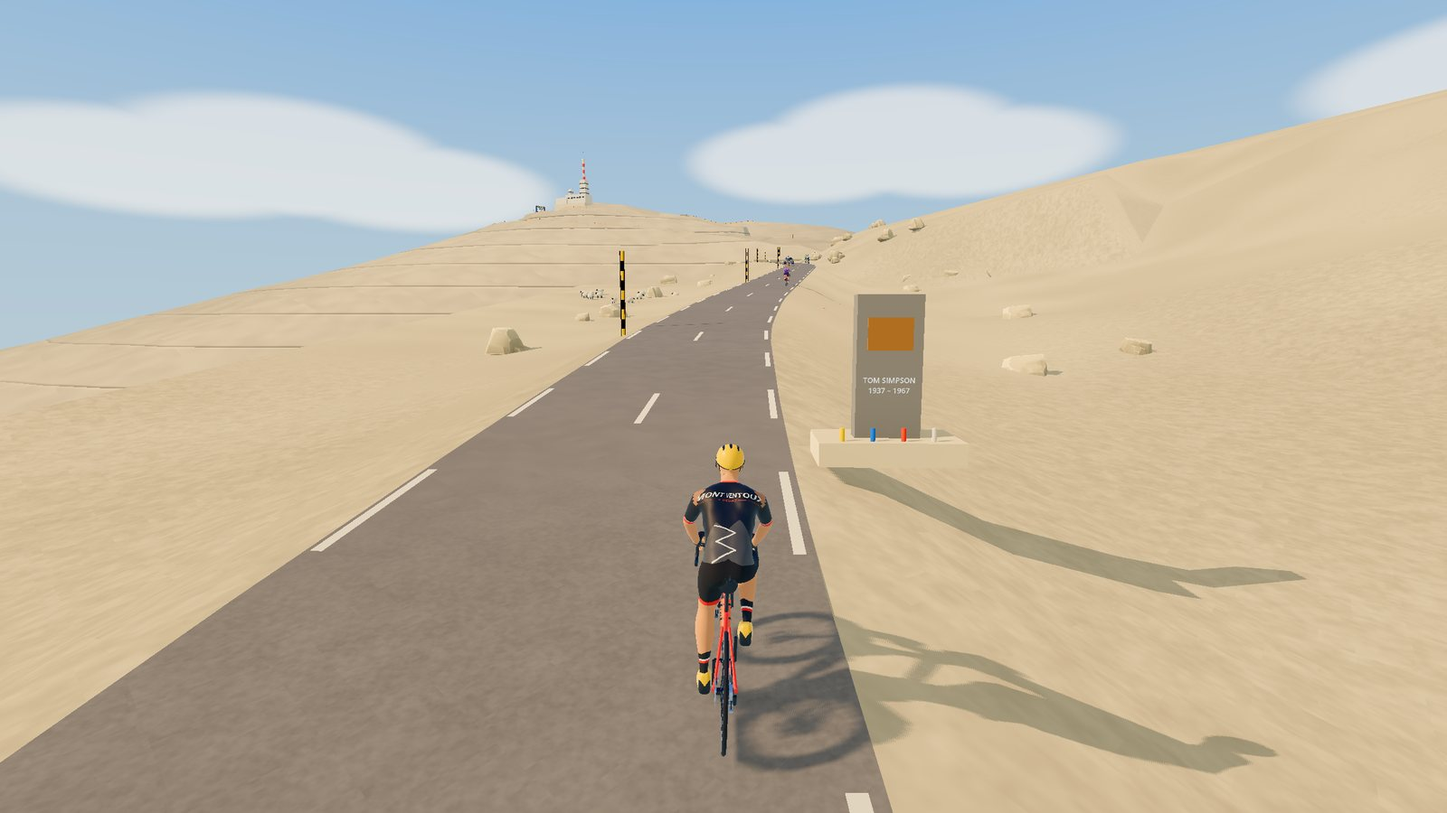
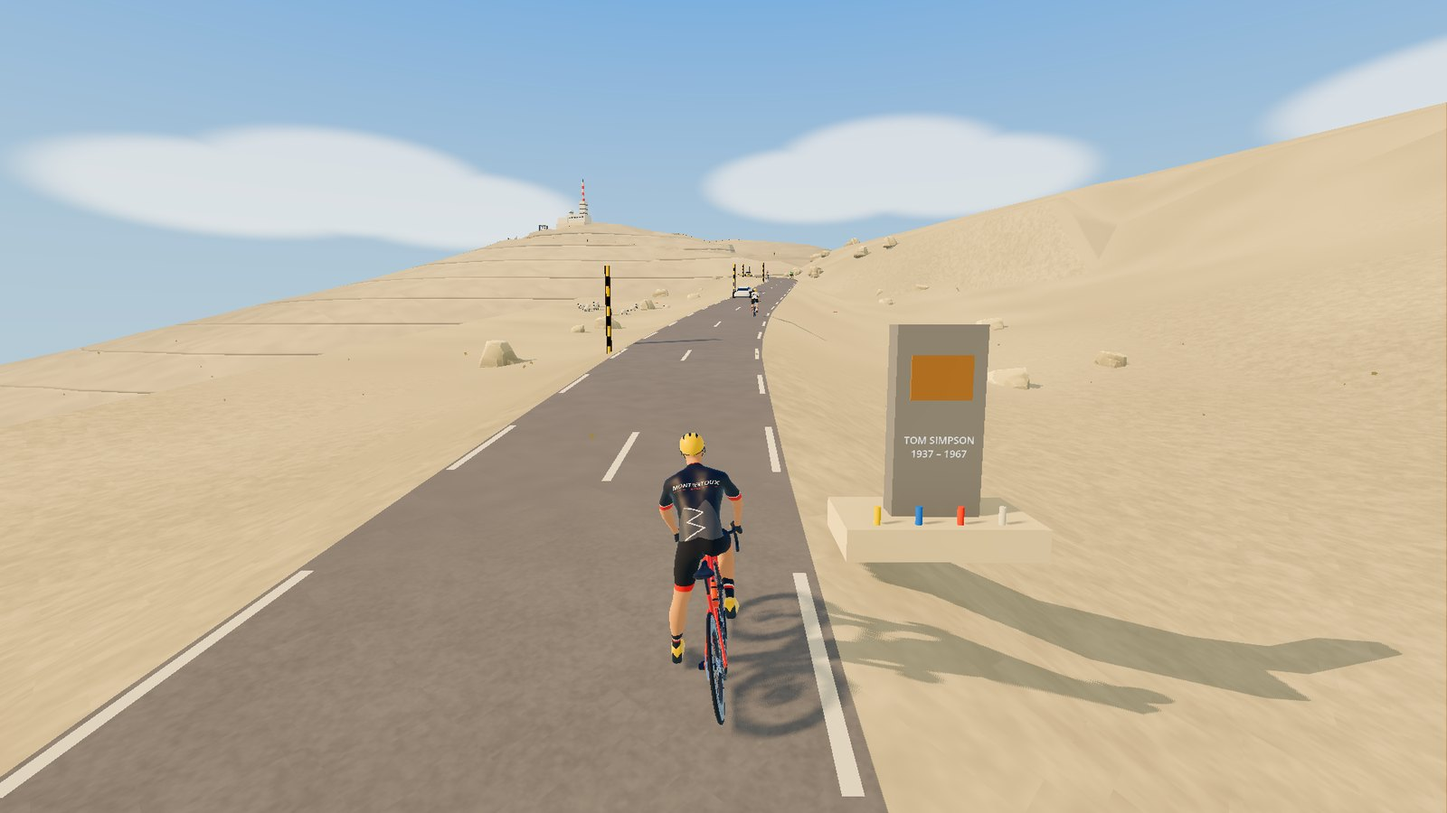
Images refaites avec le nouveau cycliste (posture, mains, selle) : accueil, 7 vues caméra, village, pluie, montées de Bédoin, Sault et Malaucène

diff --git a/index.html b/index.html
@@ -46,7 +46,7 @@
 </header>
 
 <div class="hero">
-  <img class="bg" src="img/hero.jpg?v=5" alt="Un cycliste au maillot MVO dans le pierrier du Mont Ventoux, l'observatoire au sommet">
+  <img class="bg" src="img/hero.jpg?v=6" alt="Un cycliste au maillot MVO dans le pierrier du Mont Ventoux, l'observatoire au sommet">
   <div class="wrap">
     <img class="logo" src="img/logo.png" alt="Mont Ventoux Online">
     <div class="soon-badge">Bientôt disponible • bêta en cours</div>
@@ -83,7 +83,7 @@
     <h2>Trois versants. Trois façons de souffrir. Une seule légende.</h2>
     <p class="lead">Chaque montée est chronométrée de son village jusqu'à l'observatoire, avec les bornes kilométriques blanches et jaunes qui égrènent l'altitude et la pente du kilomètre suivant, comme sur la vraie route.</p>
     <div class="grid three">
-      <a class="card versant reveal" href="bedoin.html"><img src="img/bedoin_foret_pres.jpg" alt="La forêt de Bédoin, au-dessus de 9 %"><div class="body">
+      <a class="card versant reveal" href="bedoin.html"><img src="img/bedoin_foret_pres.jpg?v=2" alt="La forêt de Bédoin, au-dessus de 9 %"><div class="body">
         <h3>Par Bédoin</h3><p>La voie royale : la forêt sans répit, puis le désert de pierres jusqu'au sommet.</p>
         <div class="stats"><span>21,4 km</span><span class="hard">+1 587 m</span><span>7,4 %</span></div><span class="more">Découvrir la montée →</span></div></a>
       <a class="card versant reveal d1" href="malaucene.html"><img src="img/malaucene_serein.jpg" alt="Au-dessus du Mont Serein, sur la face nord"><div class="body">
@@ -153,13 +153,13 @@
     </div>
     <h3 class="views-title reveal">Huit vues, une touche chacune</h3>
     <div class="views">
-      <figure class="reveal"><img src="img/vue_0.jpg" alt="Poursuite" loading="lazy"><figcaption><kbd>1</kbd> Poursuite</figcaption></figure>
-      <figure class="reveal"><img src="img/vue_1.jpg" alt="Haute" loading="lazy"><figcaption><kbd>2</kbd> Haute</figcaption></figure>
-      <figure class="reveal"><img src="img/vue_2.jpg" alt="Les yeux du cycliste" loading="lazy"><figcaption><kbd>3</kbd> Les yeux du cycliste</figcaption></figure>
-      <figure class="reveal"><img src="img/vue_3.jpg" alt="De côté" loading="lazy"><figcaption><kbd>4</kbd> De côté</figcaption></figure>
-      <figure class="reveal"><img src="img/vue_4.jpg" alt="De face, comme la moto TV" loading="lazy"><figcaption><kbd>5</kbd> De face, comme la moto TV</figcaption></figure>
-      <figure class="reveal"><img src="img/vue_5.jpg" alt="Au ras de la roue" loading="lazy"><figcaption><kbd>6</kbd> Au ras de la roue</figcaption></figure>
-      <figure class="reveal"><img src="img/vue_6.jpg" alt="Drone" loading="lazy"><figcaption><kbd>7</kbd> Drone</figcaption></figure>
+      <figure class="reveal"><img src="img/vue_0.jpg?v=2" alt="Poursuite" loading="lazy"><figcaption><kbd>1</kbd> Poursuite</figcaption></figure>
+      <figure class="reveal"><img src="img/vue_1.jpg?v=2" alt="Haute" loading="lazy"><figcaption><kbd>2</kbd> Haute</figcaption></figure>
+      <figure class="reveal"><img src="img/vue_2.jpg?v=2" alt="Les yeux du cycliste" loading="lazy"><figcaption><kbd>3</kbd> Les yeux du cycliste</figcaption></figure>
+      <figure class="reveal"><img src="img/vue_3.jpg?v=2" alt="De côté" loading="lazy"><figcaption><kbd>4</kbd> De côté</figcaption></figure>
+      <figure class="reveal"><img src="img/vue_4.jpg?v=2" alt="De face, comme la moto TV" loading="lazy"><figcaption><kbd>5</kbd> De face, comme la moto TV</figcaption></figure>
+      <figure class="reveal"><img src="img/vue_5.jpg?v=2" alt="Au ras de la roue" loading="lazy"><figcaption><kbd>6</kbd> Au ras de la roue</figcaption></figure>
+      <figure class="reveal"><img src="img/vue_6.jpg?v=2" alt="Drone" loading="lazy"><figcaption><kbd>7</kbd> Drone</figcaption></figure>
       <figure class="reveal tv"><div><kbd>8</kbd> <strong>Réalisation TV</strong><p>Les plans s'enchaînent tout seuls, comme à la télévision : poursuite, côté, moto, drone, ras de la roue…</p></div></figure>
     </div>
   </div>
@@ -189,7 +189,7 @@
     <p class="lead">Mont Ventoux Online reconstruit la Provence à partir de données géographiques publiques : relief de l'IGN, routes et bâtiments d'OpenStreetMap, photographies aériennes. Des parcours tracés sur de vraies sorties, pas sur un circuit imaginaire.</p>
 
     <div class="feature reveal">
-      <img src="img/bedoin_foret.jpg" alt="Montée du Ventoux dans la forêt de Bédoin">
+      <img src="img/bedoin_foret.jpg?v=2" alt="Montée du Ventoux dans la forêt de Bédoin">
       <div>
         <h3>La pente réelle, dans les jambes</h3>
         <p>Votre home trainer connecté reçoit la pente de la route à chaque instant : la forêt de Bédoin, les rampes au-dessus du Chalet Reynard, la dernière ligne droite vers l'observatoire.</p>
@@ -198,7 +198,7 @@
     </div>
 
     <div class="feature reveal">
-      <img src="img/village.jpg" alt="Traversée de Sault, entre boutiques et façades provençales">
+      <img src="img/village.jpg?v=2" alt="Traversée de Sault, entre boutiques et façades provençales">
       <div>
         <h3>Des villages provençaux reconstitués</h3>
         <p>Les villages sont reconstitués à partir de la carte OpenStreetMap, dans le style des villages de Provence. Les panneaux d'entrée de village et les noms de rues défilent sous vos roues.</p>
@@ -214,7 +214,7 @@
     </div>
 
     <div class="feature reveal">
-      <img src="img/bedoin_foret_pres.jpg" alt="Montée du Ventoux dans la forêt : une voiture et des cyclistes devant">
+      <img src="img/bedoin_foret_pres.jpg?v=2" alt="Montée du Ventoux dans la forêt : une voiture et des cyclistes devant">
       <div>
         <h3>Une route vivante</h3>
         <p>D'autres cyclistes à suivre ou à doubler (avec l'aspiration dans leur roue), des voitures, des tracteurs, des troupeaux, des coureurs et des promeneurs qui s'écartent à votre passage, les cigales l'été.</p>
@@ -222,7 +222,7 @@
     </div>
 
     <div class="feature reveal">
-      <img src="img/meteo.jpg?v=3" alt="Sortie sous la pluie dans les vignes des Dentelles">
+      <img src="img/meteo.jpg?v=4" alt="Sortie sous la pluie dans les vignes des Dentelles">
       <div>
         <h3>La météo du jour… ou celle de votre choix</h3>
         <p><strong>En direct</strong> : le jeu récupère la vraie météo du Vaucluse au moment où vous roulez. Vent, rafales, température, nuages et pluie, avec un vent plus fort et plus froid au sommet du Ventoux qu'au pied.</p>
@@ -231,7 +231,7 @@
     </div>
 
     <div class="feature reveal">
-      <img src="img/bedoin_village.jpg" alt="Bédoin, le Mont Ventoux à l'horizon">
+      <img src="img/bedoin_village.jpg?v=2" alt="Bédoin, le Mont Ventoux à l'horizon">
       <div>
         <h3>Le sommet se mérite</h3>
         <p>Le Ventoux grandit à chaque lacet. Ce qui vous attend là-haut, à 1 912 m ? Ce sera la surprise.</p>

diff --git a/en.html b/en.html
@@ -46,7 +46,7 @@
 </header>
 
 <div class="hero">
-  <img class="bg" src="img/hero.jpg?v=5" alt="A rider in an MVO jersey on the white scree of Mont Ventoux, the observatory at the summit">
+  <img class="bg" src="img/hero.jpg?v=6" alt="A rider in an MVO jersey on the white scree of Mont Ventoux, the observatory at the summit">
   <div class="wrap">
     <img class="logo" src="img/logo.png" alt="Mont Ventoux Online">
     <div class="soon-badge">Coming soon • beta in progress</div>
@@ -83,7 +83,7 @@
     <h2>Three sides. Three ways to suffer. One legend.</h2>
     <p class="lead">Every climb is timed from its village up to the observatory, with the white and yellow kilometre markers counting down the altitude and the gradient of the next kilometre, just like on the real road.</p>
     <div class="grid three">
-      <a class="card versant reveal" href="en-bedoin.html"><img src="img/bedoin_foret_pres.jpg" alt="The Bédoin forest, above 9%"><div class="body">
+      <a class="card versant reveal" href="en-bedoin.html"><img src="img/bedoin_foret_pres.jpg?v=2" alt="The Bédoin forest, above 9%"><div class="body">
         <h3>Via Bédoin</h3><p>The royal road: the relentless forest, then the stone desert up to the summit.</p>
         <div class="stats"><span>21.4 km</span><span class="hard">+1,587 m</span><span>7.4 %</span></div><span class="more">Discover the climb →</span></div></a>
       <a class="card versant reveal d1" href="en-malaucene.html"><img src="img/malaucene_serein.jpg" alt="Above Mont Serein, on the north face"><div class="body">
@@ -153,13 +153,13 @@
     </div>
     <h3 class="views-title reveal">Eight views, one key each</h3>
     <div class="views">
-      <figure class="reveal"><img src="img/vue_0.jpg" alt="Chase" loading="lazy"><figcaption><kbd>1</kbd> Chase</figcaption></figure>
-      <figure class="reveal"><img src="img/vue_1.jpg" alt="High" loading="lazy"><figcaption><kbd>2</kbd> High</figcaption></figure>
-      <figure class="reveal"><img src="img/vue_2.jpg" alt="Rider's eyes" loading="lazy"><figcaption><kbd>3</kbd> Rider's eyes</figcaption></figure>
-      <figure class="reveal"><img src="img/vue_3.jpg" alt="Side" loading="lazy"><figcaption><kbd>4</kbd> Side</figcaption></figure>
-      <figure class="reveal"><img src="img/vue_4.jpg" alt="Front, like the TV motorbike" loading="lazy"><figcaption><kbd>5</kbd> Front, like the TV motorbike</figcaption></figure>
-      <figure class="reveal"><img src="img/vue_5.jpg" alt="Wheel level" loading="lazy"><figcaption><kbd>6</kbd> Wheel level</figcaption></figure>
-      <figure class="reveal"><img src="img/vue_6.jpg" alt="Drone" loading="lazy"><figcaption><kbd>7</kbd> Drone</figcaption></figure>
+      <figure class="reveal"><img src="img/vue_0.jpg?v=2" alt="Chase" loading="lazy"><figcaption><kbd>1</kbd> Chase</figcaption></figure>
+      <figure class="reveal"><img src="img/vue_1.jpg?v=2" alt="High" loading="lazy"><figcaption><kbd>2</kbd> High</figcaption></figure>
+      <figure class="reveal"><img src="img/vue_2.jpg?v=2" alt="Rider's eyes" loading="lazy"><figcaption><kbd>3</kbd> Rider's eyes</figcaption></figure>
+      <figure class="reveal"><img src="img/vue_3.jpg?v=2" alt="Side" loading="lazy"><figcaption><kbd>4</kbd> Side</figcaption></figure>
+      <figure class="reveal"><img src="img/vue_4.jpg?v=2" alt="Front, like the TV motorbike" loading="lazy"><figcaption><kbd>5</kbd> Front, like the TV motorbike</figcaption></figure>
+      <figure class="reveal"><img src="img/vue_5.jpg?v=2" alt="Wheel level" loading="lazy"><figcaption><kbd>6</kbd> Wheel level</figcaption></figure>
+      <figure class="reveal"><img src="img/vue_6.jpg?v=2" alt="Drone" loading="lazy"><figcaption><kbd>7</kbd> Drone</figcaption></figure>
       <figure class="reveal tv"><div><kbd>8</kbd> <strong>TV director</strong><p>Shots follow one another on their own, like on TV: chase, side, motorbike, drone, wheel level…</p></div></figure>
     </div>
   </div>
@@ -189,7 +189,7 @@
     <p class="lead">Mont Ventoux Online rebuilds Provence from public geographic data: IGN terrain (the French national mapping agency), OpenStreetMap roads and buildings, aerial photographs. Routes traced from real rides, not an imaginary circuit.</p>
 
     <div class="feature reveal">
-      <img src="img/bedoin_foret.jpg" alt="Climbing the Ventoux in the Bédoin forest">
+      <img src="img/bedoin_foret.jpg?v=2" alt="Climbing the Ventoux in the Bédoin forest">
       <div>
         <h3>The real gradient, in your legs</h3>
         <p>Your smart trainer receives the gradient of the road at every moment: the Bédoin forest, the ramps above Chalet Reynard, the final straight to the observatory.</p>
@@ -198,7 +198,7 @@
     </div>
 
     <div class="feature reveal">
-      <img src="img/village.jpg" alt="Riding through Sault, between shops and Provençal facades">
+      <img src="img/village.jpg?v=2" alt="Riding through Sault, between shops and Provençal facades">
       <div>
         <h3>Provençal villages, rebuilt</h3>
         <p>The villages are rebuilt from the OpenStreetMap map, in the style of Provençal villages. Village signs and street names roll by under your wheels.</p>
@@ -214,7 +214,7 @@
     </div>
 
     <div class="feature reveal">
-      <img src="img/bedoin_foret_pres.jpg" alt="Climbing the Ventoux through the forest: a car and riders ahead">
+      <img src="img/bedoin_foret_pres.jpg?v=2" alt="Climbing the Ventoux through the forest: a car and riders ahead">
       <div>
         <h3>A living road</h3>
         <p>Other riders to follow or overtake (with drafting in their wheel), cars, tractors, flocks of sheep, runners and walkers who step aside as you pass, cicadas in summer.</p>
@@ -222,7 +222,7 @@
     </div>
 
     <div class="feature reveal">
-      <img src="img/meteo.jpg?v=3" alt="Riding in the rain through the vineyards of the Dentelles">
+      <img src="img/meteo.jpg?v=4" alt="Riding in the rain through the vineyards of the Dentelles">
       <div>
         <h3>Today's weather… or the one you choose</h3>
         <p><strong>Live</strong>: the game fetches the real Vaucluse weather when you ride. Wind, gusts, temperature, clouds and rain, with a stronger, colder wind at the top of the Ventoux than at its foot.</p>
@@ -231,7 +231,7 @@
     </div>
 
     <div class="feature reveal">
-      <img src="img/bedoin_village.jpg" alt="Bédoin, with Mont Ventoux on the horizon">
+      <img src="img/bedoin_village.jpg?v=2" alt="Bédoin, with Mont Ventoux on the horizon">
       <div>
         <h3>The summit must be earned</h3>
         <p>The Ventoux grows with every hairpin. What awaits you up there, at 1,912 m? That's the surprise.</p>

diff --git a/malaucene.html b/malaucene.html
@@ -62,9 +62,9 @@
     <div class="kicker">La montée</div>
     <h2>Ce qui vous attend</h2>
       <div class="feature reveal"><img src="img/malaucene_depart.jpg" alt="Le départ de Malaucène" loading="lazy"><div><h3>Malaucène, 326 m</h3><p>Au pied des Dentelles, on quitte Malaucène par la route du Groseau. Dès le deuxième kilomètre, près de la chapelle Notre-Dame-du-Groseau, la pente dépasse les 8 %.</p></div></div>
-      <div class="feature reveal"><img src="img/malaucene_foret.jpg" alt="Les rampes de la face nord" loading="lazy"><div><h3>La forêt de la face nord</h3><p>Les pins et les hêtres de l'ubac alternent replats et rampes. Entre le 11e et le 13e kilomètre, la route aligne trois kilomètres à plus de 10 % : le passage le plus dur des trois versants.</p></div></div>
+      <div class="feature reveal"><img src="img/malaucene_foret.jpg?v=2" alt="Les rampes de la face nord" loading="lazy"><div><h3>La forêt de la face nord</h3><p>Les pins et les hêtres de l'ubac alternent replats et rampes. Entre le 11e et le 13e kilomètre, la route aligne trois kilomètres à plus de 10 % : le passage le plus dur des trois versants.</p></div></div>
       <div class="feature reveal"><img src="img/malaucene_serein.jpg" alt="La station du Mont Serein" loading="lazy"><div><h3>Le Mont Serein, 1 433 m</h3><p>La station de ski apparaît au détour d'un virage, avec ses chalets et ses remontées. Un court répit avant l'assaut final.</p></div></div>
-      <div class="feature reveal"><img src="img/malaucene_sommet.jpg" alt="L'observatoire et les spectateurs" loading="lazy"><div><h3>Les derniers kilomètres</h3><p>Au-dessus des arbres, la route grimpe en lacets dans le pierrier jusqu'à l'observatoire. La vue plonge sur la vallée du Toulourenc et, par temps clair, jusqu'aux Alpes.</p></div></div>
+      <div class="feature reveal"><img src="img/malaucene_sommet.jpg?v=2" alt="L'observatoire et les spectateurs" loading="lazy"><div><h3>Les derniers kilomètres</h3><p>Au-dessus des arbres, la route grimpe en lacets dans le pierrier jusqu'à l'observatoire. La vue plonge sur la vallée du Toulourenc et, par temps clair, jusqu'aux Alpes.</p></div></div>
   </div>
 </section>
 
@@ -91,9 +91,9 @@
     <h2>Telles qu'elles s'affichent sur votre écran</h2>
     <div class="gallery">
       <figure class="reveal d1"><img src="img/malaucene_depart.jpg" alt="Le départ de Malaucène" loading="lazy"><figcaption>Le départ de Malaucène</figcaption></figure>
-      <figure class="reveal d2"><img src="img/malaucene_foret.jpg" alt="Les rampes de la face nord" loading="lazy"><figcaption>Les rampes de la face nord</figcaption></figure>
+      <figure class="reveal d2"><img src="img/malaucene_foret.jpg?v=2" alt="Les rampes de la face nord" loading="lazy"><figcaption>Les rampes de la face nord</figcaption></figure>
       <figure class="reveal d3"><img src="img/malaucene_serein.jpg" alt="La station du Mont Serein" loading="lazy"><figcaption>La station du Mont Serein</figcaption></figure>
-      <figure class="reveal d1"><img src="img/malaucene_sommet.jpg" alt="L'observatoire et les spectateurs" loading="lazy"><figcaption>L'observatoire et les spectateurs</figcaption></figure>
+      <figure class="reveal d1"><img src="img/malaucene_sommet.jpg?v=2" alt="L'observatoire et les spectateurs" loading="lazy"><figcaption>L'observatoire et les spectateurs</figcaption></figure>
       <figure class="reveal d2"><img src="img/malaucene_haut.jpg" alt="La forêt de la face nord, vue d'en haut" loading="lazy"><figcaption>La forêt de la face nord, vue d'en haut</figcaption></figure>
       <figure class="reveal d3"><img src="img/maquette_serein.jpg" alt="Les lacets du Mont Serein, vus d'en haut" loading="lazy"><figcaption>Les lacets du Mont Serein, vus d'en haut</figcaption></figure>
     </div>

diff --git a/sault.html b/sault.html
@@ -62,9 +62,9 @@
     <div class="kicker">La montée</div>
     <h2>Ce qui vous attend</h2>
       <div class="feature reveal"><img src="img/sault_depart.jpg" alt="Le départ de Sault, la route du Ventoux" loading="lazy"><div><h3>Sault, 754 m</h3><p>On quitte le village perché par la route du Ventoux, entre champs de lavande et d'épeautre. Après une courte descente, la montée commence à 4 ou 5 %, régulière comme un métronome.</p></div></div>
-      <div class="feature reveal"><img src="img/sault_plateau.jpg" alt="La montée en forêt" loading="lazy"><div><h3>La forêt du versant est</h3><p>Une longue traversée en forêt, à l'ombre des pins, sans jamais dépasser 6 % : idéal pour une séance au seuil ou un plan d'entraînement.</p></div></div>
+      <div class="feature reveal"><img src="img/sault_plateau.jpg?v=2" alt="La montée en forêt" loading="lazy"><div><h3>La forêt du versant est</h3><p>Une longue traversée en forêt, à l'ombre des pins, sans jamais dépasser 6 % : idéal pour une séance au seuil ou un plan d'entraînement.</p></div></div>
       <div class="feature reveal"><img src="img/sault_chalet.jpg" alt="Le Chalet Reynard" loading="lazy"><div><h3>Le Chalet Reynard, 1 417 m</h3><p>Au Chalet Reynard, la route de Sault rejoint celle de Bédoin. Le décor change d'un coup : plus un arbre, le pierrier blanc et le sommet droit devant.</p></div></div>
-      <div class="feature reveal"><img src="img/sault_sommet.jpg" alt="La stèle de Tom Simpson, l'observatoire en vue" loading="lazy"><div><h3>Les six derniers kilomètres</h3><p>Entre 7 et 9 % jusqu'au bout, devant la stèle de Tom Simpson et le col des Tempêtes, jusqu'à l'observatoire et ses spectateurs.</p></div></div>
+      <div class="feature reveal"><img src="img/sault_sommet.jpg?v=2" alt="La stèle de Tom Simpson, l'observatoire en vue" loading="lazy"><div><h3>Les six derniers kilomètres</h3><p>Entre 7 et 9 % jusqu'au bout, devant la stèle de Tom Simpson et le col des Tempêtes, jusqu'à l'observatoire et ses spectateurs.</p></div></div>
   </div>
 </section>
 
@@ -91,9 +91,9 @@
     <h2>Telles qu'elles s'affichent sur votre écran</h2>
     <div class="gallery">
       <figure class="reveal d1"><img src="img/sault_depart.jpg" alt="Le départ de Sault, la route du Ventoux" loading="lazy"><figcaption>Le départ de Sault, la route du Ventoux</figcaption></figure>
-      <figure class="reveal d2"><img src="img/sault_plateau.jpg" alt="La montée en forêt" loading="lazy"><figcaption>La montée en forêt</figcaption></figure>
+      <figure class="reveal d2"><img src="img/sault_plateau.jpg?v=2" alt="La montée en forêt" loading="lazy"><figcaption>La montée en forêt</figcaption></figure>
       <figure class="reveal d3"><img src="img/sault_chalet.jpg" alt="Le Chalet Reynard" loading="lazy"><figcaption>Le Chalet Reynard</figcaption></figure>
-      <figure class="reveal d1"><img src="img/sault_sommet.jpg" alt="La stèle de Tom Simpson, l'observatoire en vue" loading="lazy"><figcaption>La stèle de Tom Simpson, l'observatoire en vue</figcaption></figure>
+      <figure class="reveal d1"><img src="img/sault_sommet.jpg?v=2" alt="La stèle de Tom Simpson, l'observatoire en vue" loading="lazy"><figcaption>La stèle de Tom Simpson, l'observatoire en vue</figcaption></figure>
       <figure class="reveal d2"><img src="img/sault_foret_haut.jpg" alt="La forêt du versant est, vue d'en haut" loading="lazy"><figcaption>La forêt du versant est, vue d'en haut</figcaption></figure>
       <figure class="reveal d3"><img src="img/maquette_sault.jpg" alt="Sault et le plateau, vus d'en haut" loading="lazy"><figcaption>Sault et le plateau, vus d'en haut</figcaption></figure>
     </div>

diff --git a/en-malaucene.html b/en-malaucene.html
@@ -62,9 +62,9 @@
     <div class="kicker">The climb</div>
     <h2>What lies ahead</h2>
       <div class="feature reveal"><img src="img/malaucene_depart.jpg" alt="Leaving Malaucène" loading="lazy"><div><h3>Malaucène, 326 m</h3><p>At the foot of the Dentelles, you leave Malaucène on the Groseau road. From the second kilometre, near the Notre-Dame-du-Groseau chapel, the gradient goes above 8%.</p></div></div>
-      <div class="feature reveal"><img src="img/malaucene_foret.jpg" alt="The north-face ramps" loading="lazy"><div><h3>The north-face forest</h3><p>Pines and beeches alternate between flatter sections and ramps. Between km 11 and km 13 the road strings together three kilometres above 10%: the hardest section of the three sides.</p></div></div>
+      <div class="feature reveal"><img src="img/malaucene_foret.jpg?v=2" alt="The north-face ramps" loading="lazy"><div><h3>The north-face forest</h3><p>Pines and beeches alternate between flatter sections and ramps. Between km 11 and km 13 the road strings together three kilometres above 10%: the hardest section of the three sides.</p></div></div>
       <div class="feature reveal"><img src="img/malaucene_serein.jpg" alt="The Mont Serein station" loading="lazy"><div><h3>Mont Serein, 1,433 m</h3><p>The ski station appears around a bend, with its chalets and lifts. A short break before the final assault.</p></div></div>
-      <div class="feature reveal"><img src="img/malaucene_sommet.jpg" alt="The observatory and the crowd" loading="lazy"><div><h3>The last kilometres</h3><p>Above the trees, the road zigzags through the scree up to the observatory. The view plunges into the Toulourenc valley and, on a clear day, all the way to the Alps.</p></div></div>
+      <div class="feature reveal"><img src="img/malaucene_sommet.jpg?v=2" alt="The observatory and the crowd" loading="lazy"><div><h3>The last kilometres</h3><p>Above the trees, the road zigzags through the scree up to the observatory. The view plunges into the Toulourenc valley and, on a clear day, all the way to the Alps.</p></div></div>
   </div>
 </section>
 
@@ -91,9 +91,9 @@
     <h2>Exactly as they appear on your screen</h2>
     <div class="gallery">
       <figure class="reveal d1"><img src="img/malaucene_depart.jpg" alt="Leaving Malaucène" loading="lazy"><figcaption>Leaving Malaucène</figcaption></figure>
-      <figure class="reveal d2"><img src="img/malaucene_foret.jpg" alt="The north-face ramps" loading="lazy"><figcaption>The north-face ramps</figcaption></figure>
+      <figure class="reveal d2"><img src="img/malaucene_foret.jpg?v=2" alt="The north-face ramps" loading="lazy"><figcaption>The north-face ramps</figcaption></figure>
       <figure class="reveal d3"><img src="img/malaucene_serein.jpg" alt="The Mont Serein station" loading="lazy"><figcaption>The Mont Serein station</figcaption></figure>
-      <figure class="reveal d1"><img src="img/malaucene_sommet.jpg" alt="The observatory and the crowd" loading="lazy"><figcaption>The observatory and the crowd</figcaption></figure>
+      <figure class="reveal d1"><img src="img/malaucene_sommet.jpg?v=2" alt="The observatory and the crowd" loading="lazy"><figcaption>The observatory and the crowd</figcaption></figure>
       <figure class="reveal d2"><img src="img/malaucene_haut.jpg" alt="The north-face forest from above" loading="lazy"><figcaption>The north-face forest from above</figcaption></figure>
       <figure class="reveal d3"><img src="img/maquette_serein.jpg" alt="The Mont Serein hairpins from above" loading="lazy"><figcaption>The Mont Serein hairpins from above</figcaption></figure>
     </div>

diff --git a/en-sault.html b/en-sault.html
@@ -62,9 +62,9 @@
     <div class="kicker">The climb</div>
     <h2>What lies ahead</h2>
       <div class="feature reveal"><img src="img/sault_depart.jpg" alt="Leaving Sault on the Ventoux road" loading="lazy"><div><h3>Sault, 754 m</h3><p>You leave the hilltop village on the Ventoux road, between lavender and spelt fields. After a short descent the climb starts at 4 to 5%, as steady as a metronome.</p></div></div>
-      <div class="feature reveal"><img src="img/sault_plateau.jpg" alt="Climbing through the forest" loading="lazy"><div><h3>The east-side forest</h3><p>A long stretch through the pine forest, never above 6%: perfect for a threshold session or a training plan.</p></div></div>
+      <div class="feature reveal"><img src="img/sault_plateau.jpg?v=2" alt="Climbing through the forest" loading="lazy"><div><h3>The east-side forest</h3><p>A long stretch through the pine forest, never above 6%: perfect for a threshold session or a training plan.</p></div></div>
       <div class="feature reveal"><img src="img/sault_chalet.jpg" alt="Chalet Reynard" loading="lazy"><div><h3>Chalet Reynard, 1,417 m</h3><p>At Chalet Reynard the Sault road joins the Bédoin road. The scenery changes at once: not a single tree left, the white scree and the summit straight ahead.</p></div></div>
-      <div class="feature reveal"><img src="img/sault_sommet.jpg" alt="The Tom Simpson memorial, the observatory in sight" loading="lazy"><div><h3>The last six kilometres</h3><p>Between 7 and 9% all the way, past the Tom Simpson memorial and the Col des Tempêtes, up to the observatory and its crowd.</p></div></div>
+      <div class="feature reveal"><img src="img/sault_sommet.jpg?v=2" alt="The Tom Simpson memorial, the observatory in sight" loading="lazy"><div><h3>The last six kilometres</h3><p>Between 7 and 9% all the way, past the Tom Simpson memorial and the Col des Tempêtes, up to the observatory and its crowd.</p></div></div>
   </div>
 </section>
 
@@ -91,9 +91,9 @@
     <h2>Exactly as they appear on your screen</h2>
     <div class="gallery">
       <figure class="reveal d1"><img src="img/sault_depart.jpg" alt="Leaving Sault on the Ventoux road" loading="lazy"><figcaption>Leaving Sault on the Ventoux road</figcaption></figure>
-      <figure class="reveal d2"><img src="img/sault_plateau.jpg" alt="Climbing through the forest" loading="lazy"><figcaption>Climbing through the forest</figcaption></figure>
+      <figure class="reveal d2"><img src="img/sault_plateau.jpg?v=2" alt="Climbing through the forest" loading="lazy"><figcaption>Climbing through the forest</figcaption></figure>
       <figure class="reveal d3"><img src="img/sault_chalet.jpg" alt="Chalet Reynard" loading="lazy"><figcaption>Chalet Reynard</figcaption></figure>
-      <figure class="reveal d1"><img src="img/sault_sommet.jpg" alt="The Tom Simpson memorial, the observatory in sight" loading="lazy"><figcaption>The Tom Simpson memorial, the observatory in sight</figcaption></figure>
+      <figure class="reveal d1"><img src="img/sault_sommet.jpg?v=2" alt="The Tom Simpson memorial, the observatory in sight" loading="lazy"><figcaption>The Tom Simpson memorial, the observatory in sight</figcaption></figure>
       <figure class="reveal d2"><img src="img/sault_foret_haut.jpg" alt="The east-side forest from above" loading="lazy"><figcaption>The east-side forest from above</figcaption></figure>
       <figure class="reveal d3"><img src="img/maquette_sault.jpg" alt="Sault and the plateau from above" loading="lazy"><figcaption>Sault and the plateau from above</figcaption></figure>
     </div>

diff --git a/bedoin.html b/bedoin.html
@@ -64,7 +64,7 @@
       <div class="feature reveal"><img src="img/bedoin_depart.jpg" alt="Le départ de Bédoin" loading="lazy"><div><h3>Bédoin, 306 m</h3><p>On quitte la place du village entre les platanes et les terrasses. Les six premiers kilomètres montent doucement entre vignes et cerisiers : c'est le moment de trouver son rythme.</p></div></div>
       <div class="feature reveal"><img src="img/bedoin_saint_esteve.jpg" alt="Le virage de Saint-Estève" loading="lazy"><div><h3>Saint-Estève, le virage qui change tout</h3><p>Au virage de Saint-Estève, la route entre dans la forêt et la pente ne redescend plus sous les 9 % pendant près de dix kilomètres. Dans le jeu, votre home trainer le fait sentir à chaque mètre.</p></div></div>
       <div class="feature reveal"><img src="img/bedoin_chalet.jpg" alt="L'arrivée au Chalet Reynard" loading="lazy"><div><h3>Le Chalet Reynard, 1 417 m</h3><p>La forêt s'ouvre d'un coup sur le Chalet Reynard. Les arbres disparaissent : il reste six kilomètres dans le pierrier, exposés au vent, l'observatoire en ligne de mire.</p></div></div>
-      <div class="feature reveal"><img src="img/bedoin_pierrier.jpg" alt="La stèle de Tom Simpson, l'observatoire en vue" loading="lazy"><div><h3>Le mémorial Tom Simpson et le col des Tempêtes</h3><p>À 1,3 km du sommet, la stèle de Tom Simpson se dresse côté montagne. Puis le col des Tempêtes, souvent balayé par le Mistral, et le dernier virage à 10 % sous l'observatoire, au milieu des spectateurs.</p></div></div>
+      <div class="feature reveal"><img src="img/bedoin_pierrier.jpg?v=2" alt="La stèle de Tom Simpson, l'observatoire en vue" loading="lazy"><div><h3>Le mémorial Tom Simpson et le col des Tempêtes</h3><p>À 1,3 km du sommet, la stèle de Tom Simpson se dresse côté montagne. Puis le col des Tempêtes, souvent balayé par le Mistral, et le dernier virage à 10 % sous l'observatoire, au milieu des spectateurs.</p></div></div>
   </div>
 </section>
 
@@ -93,7 +93,7 @@
       <figure class="reveal d1"><img src="img/bedoin_depart.jpg" alt="Le départ de Bédoin" loading="lazy"><figcaption>Le départ de Bédoin</figcaption></figure>
       <figure class="reveal d2"><img src="img/bedoin_saint_esteve.jpg" alt="Le virage de Saint-Estève" loading="lazy"><figcaption>Le virage de Saint-Estève</figcaption></figure>
       <figure class="reveal d3"><img src="img/bedoin_chalet.jpg" alt="L'arrivée au Chalet Reynard" loading="lazy"><figcaption>L'arrivée au Chalet Reynard</figcaption></figure>
-      <figure class="reveal d1"><img src="img/bedoin_pierrier.jpg" alt="La stèle de Tom Simpson, l'observatoire en vue" loading="lazy"><figcaption>La stèle de Tom Simpson, l'observatoire en vue</figcaption></figure>
+      <figure class="reveal d1"><img src="img/bedoin_pierrier.jpg?v=2" alt="La stèle de Tom Simpson, l'observatoire en vue" loading="lazy"><figcaption>La stèle de Tom Simpson, l'observatoire en vue</figcaption></figure>
       <figure class="reveal d2"><img src="img/bedoin_sommet.jpg" alt="Les derniers mètres, les spectateurs" loading="lazy"><figcaption>Les derniers mètres, les spectateurs</figcaption></figure>
       <figure class="reveal d3"><img src="img/maquette_foret.jpg" alt="La forêt de Bédoin, vue d'en haut" loading="lazy"><figcaption>La forêt de Bédoin, vue d'en haut</figcaption></figure>
     </div>

diff --git a/en-bedoin.html b/en-bedoin.html
@@ -64,7 +64,7 @@
       <div class="feature reveal"><img src="img/bedoin_depart.jpg" alt="Leaving Bédoin" loading="lazy"><div><h3>Bédoin, 306 m</h3><p>You leave the village square between plane trees and café terraces. The first six kilometres climb gently through vineyards and cherry orchards: time to find your rhythm.</p></div></div>
       <div class="feature reveal"><img src="img/bedoin_saint_esteve.jpg" alt="The Saint-Estève bend" loading="lazy"><div><h3>Saint-Estève, the bend that changes everything</h3><p>At the Saint-Estève bend the road enters the forest and the gradient stays above 9% for almost ten kilometres. In the game, your smart trainer makes you feel every metre.</p></div></div>
       <div class="feature reveal"><img src="img/bedoin_chalet.jpg" alt="Arriving at Chalet Reynard" loading="lazy"><div><h3>Chalet Reynard, 1,417 m</h3><p>The forest suddenly opens onto Chalet Reynard. The trees are gone: six kilometres remain through the scree, exposed to the wind, the observatory in sight.</p></div></div>
-      <div class="feature reveal"><img src="img/bedoin_pierrier.jpg" alt="The Tom Simpson memorial, the observatory in sight" loading="lazy"><div><h3>The Tom Simpson memorial and the Col des Tempêtes</h3><p>1.3 km from the top, the Tom Simpson memorial stands on the mountain side. Then the Col des Tempêtes, often swept by the Mistral, and the last 10% bend below the observatory, among the crowd.</p></div></div>
+      <div class="feature reveal"><img src="img/bedoin_pierrier.jpg?v=2" alt="The Tom Simpson memorial, the observatory in sight" loading="lazy"><div><h3>The Tom Simpson memorial and the Col des Tempêtes</h3><p>1.3 km from the top, the Tom Simpson memorial stands on the mountain side. Then the Col des Tempêtes, often swept by the Mistral, and the last 10% bend below the observatory, among the crowd.</p></div></div>
   </div>
 </section>
 
@@ -93,7 +93,7 @@
       <figure class="reveal d1"><img src="img/bedoin_depart.jpg" alt="Leaving Bédoin" loading="lazy"><figcaption>Leaving Bédoin</figcaption></figure>
       <figure class="reveal d2"><img src="img/bedoin_saint_esteve.jpg" alt="The Saint-Estève bend" loading="lazy"><figcaption>The Saint-Estève bend</figcaption></figure>
       <figure class="reveal d3"><img src="img/bedoin_chalet.jpg" alt="Arriving at Chalet Reynard" loading="lazy"><figcaption>Arriving at Chalet Reynard</figcaption></figure>
-      <figure class="reveal d1"><img src="img/bedoin_pierrier.jpg" alt="The Tom Simpson memorial, the observatory in sight" loading="lazy"><figcaption>The Tom Simpson memorial, the observatory in sight</figcaption></figure>
+      <figure class="reveal d1"><img src="img/bedoin_pierrier.jpg?v=2" alt="The Tom Simpson memorial, the observatory in sight" loading="lazy"><figcaption>The Tom Simpson memorial, the observatory in sight</figcaption></figure>
       <figure class="reveal d2"><img src="img/bedoin_sommet.jpg" alt="The last metres, the crowd" loading="lazy"><figcaption>The last metres, the crowd</figcaption></figure>
       <figure class="reveal d3"><img src="img/maquette_foret.jpg" alt="The Bédoin forest from above" loading="lazy"><figcaption>The Bédoin forest from above</figcaption></figure>
     </div>

diff --git a/histoire.html b/histoire.html
@@ -57,7 +57,7 @@
 </header>
 
 <div class="vhero">
-  <img src="img/bedoin_pierrier.jpg" alt="Le pierrier du Mont Ventoux et la stèle de Tom Simpson, l'observatoire en vue">
+  <img src="img/bedoin_pierrier.jpg?v=2" alt="Le pierrier du Mont Ventoux et la stèle de Tom Simpson, l'observatoire en vue">
   <div class="wrap">
     <div class="crumb"><a href="index.html#ventoux">Le Géant de Provence</a> › Histoire</div>
     <h1>Le Mont Ventoux et le Tour de France</h1>

diff --git a/en-history.html b/en-history.html
@@ -57,7 +57,7 @@
 </header>
 
 <div class="vhero">
-  <img src="img/bedoin_pierrier.jpg" alt="The Mont Ventoux scree and the Tom Simpson memorial, the observatory in sight">
+  <img src="img/bedoin_pierrier.jpg?v=2" alt="The Mont Ventoux scree and the Tom Simpson memorial, the observatory in sight">
   <div class="wrap">
     <div class="crumb"><a href="en.html#ventoux">The Giant of Provence</a> › History</div>
     <h1>Mont Ventoux and the Tour de France</h1>
